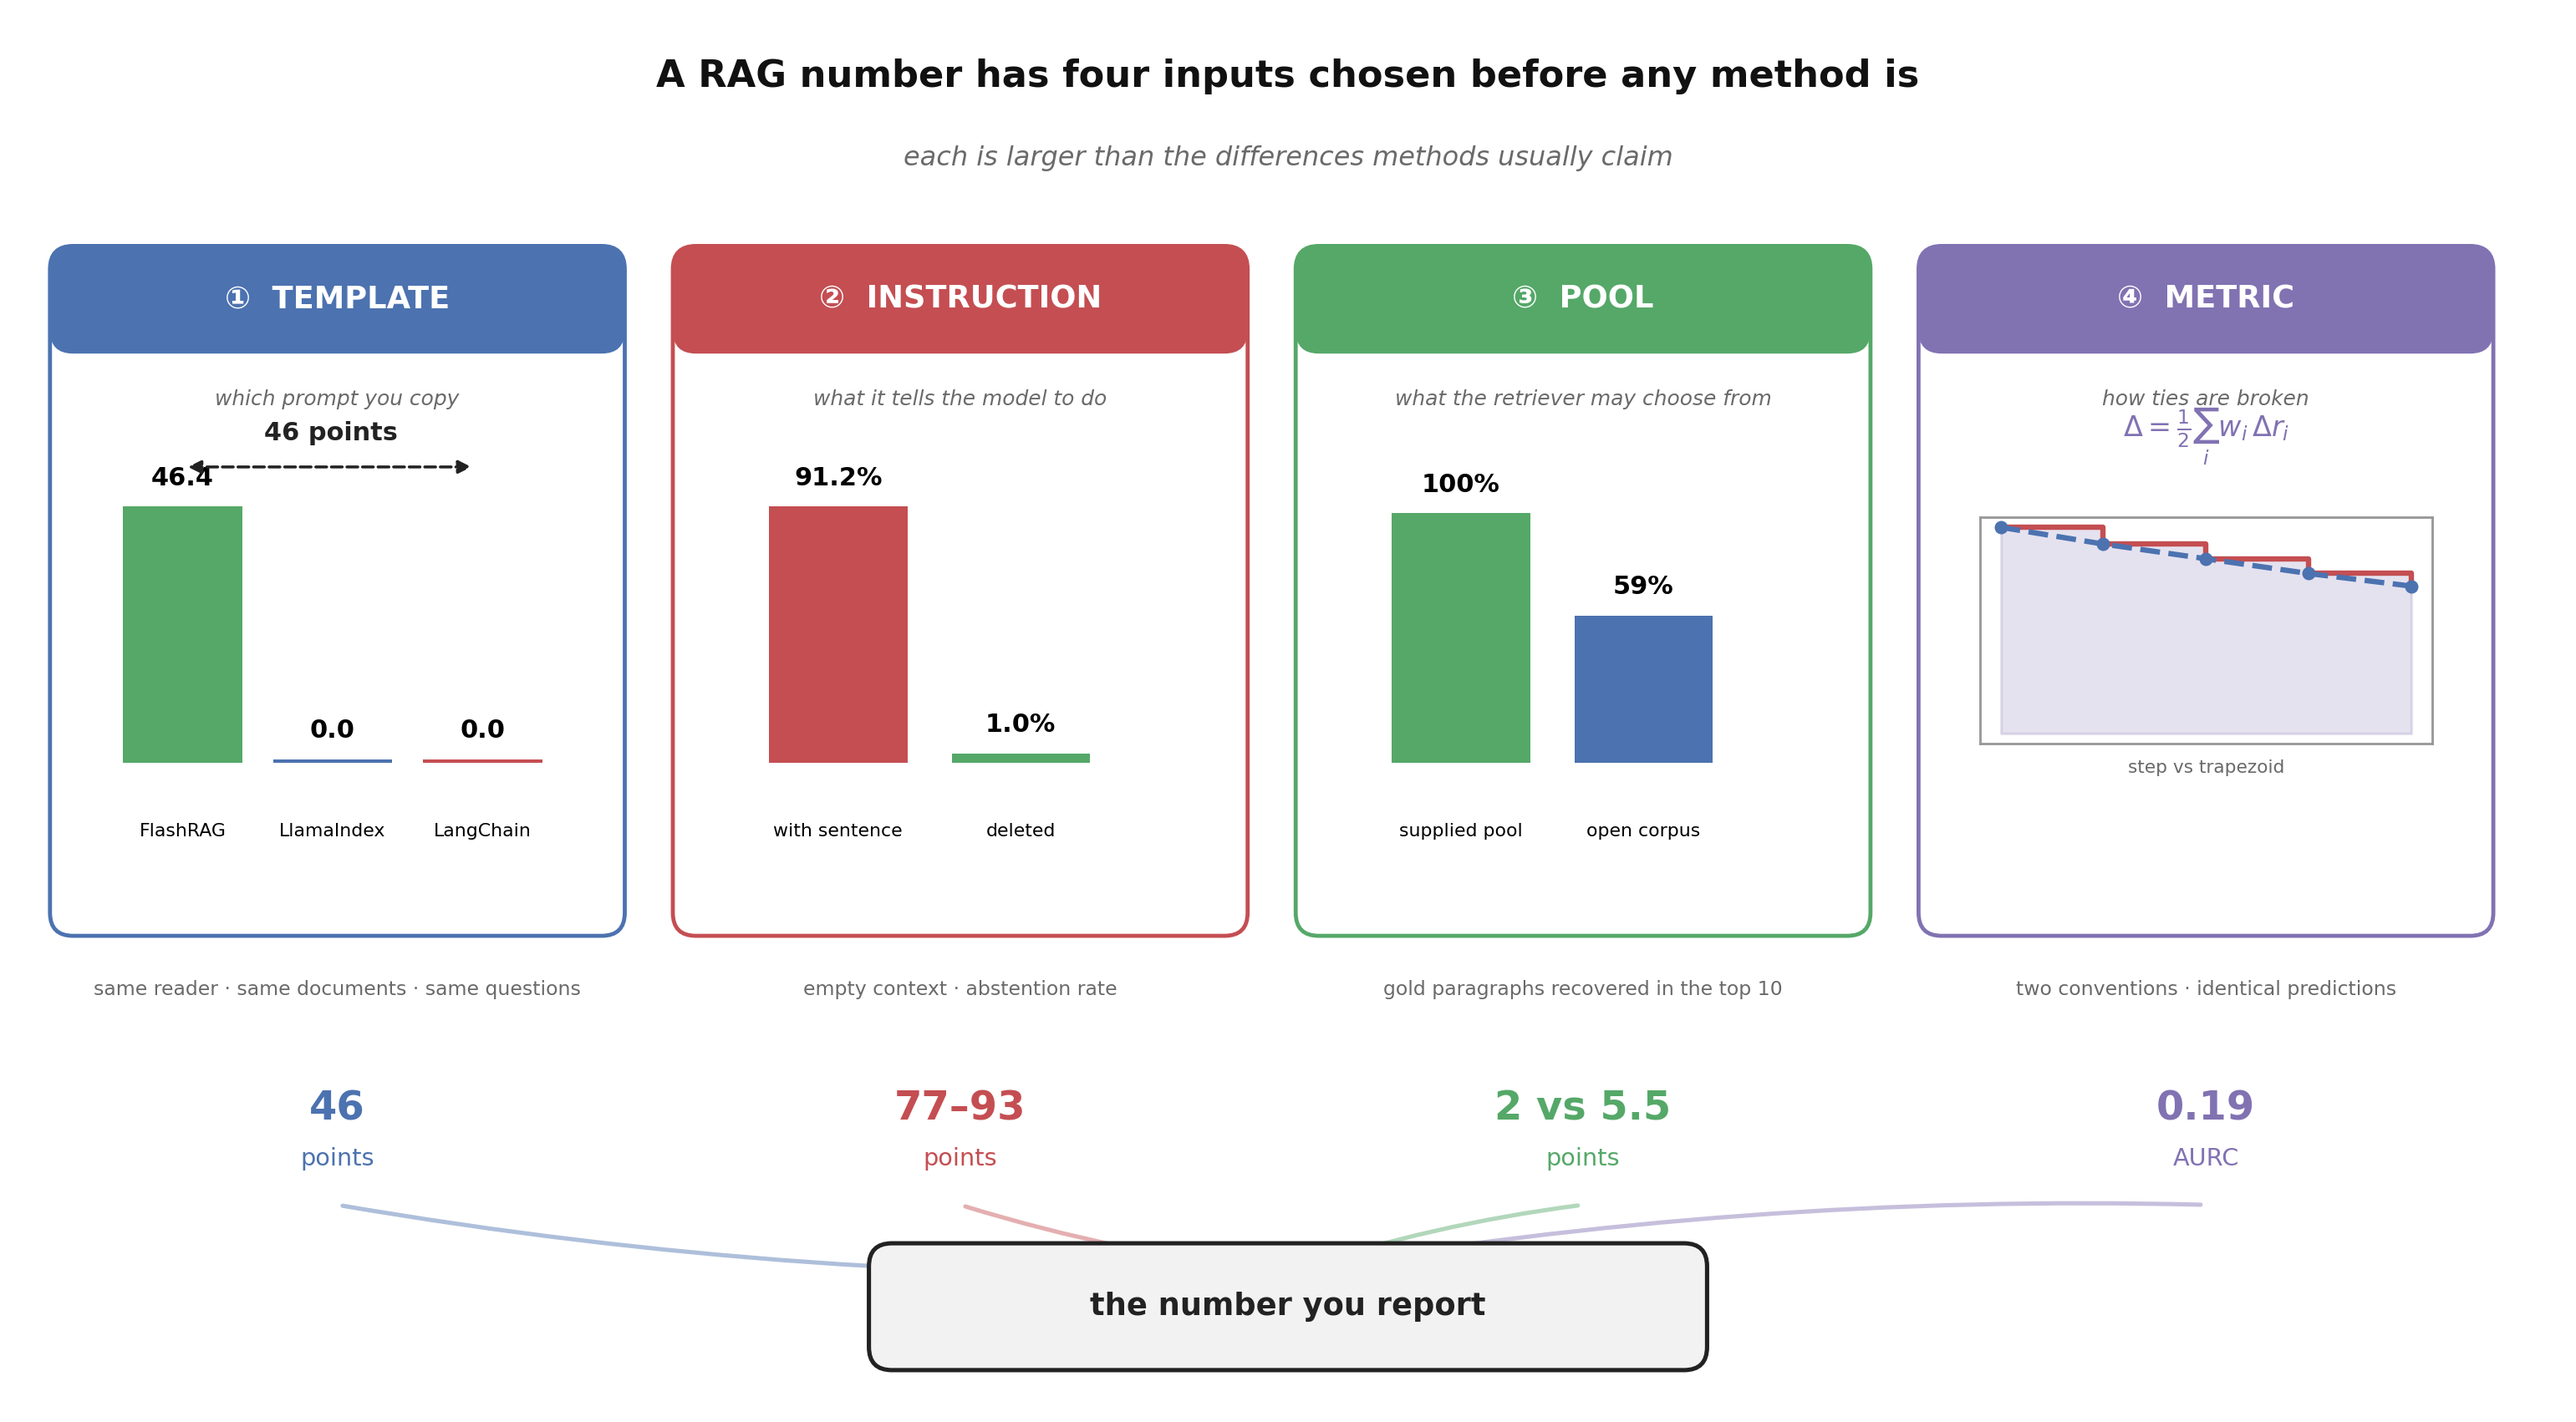
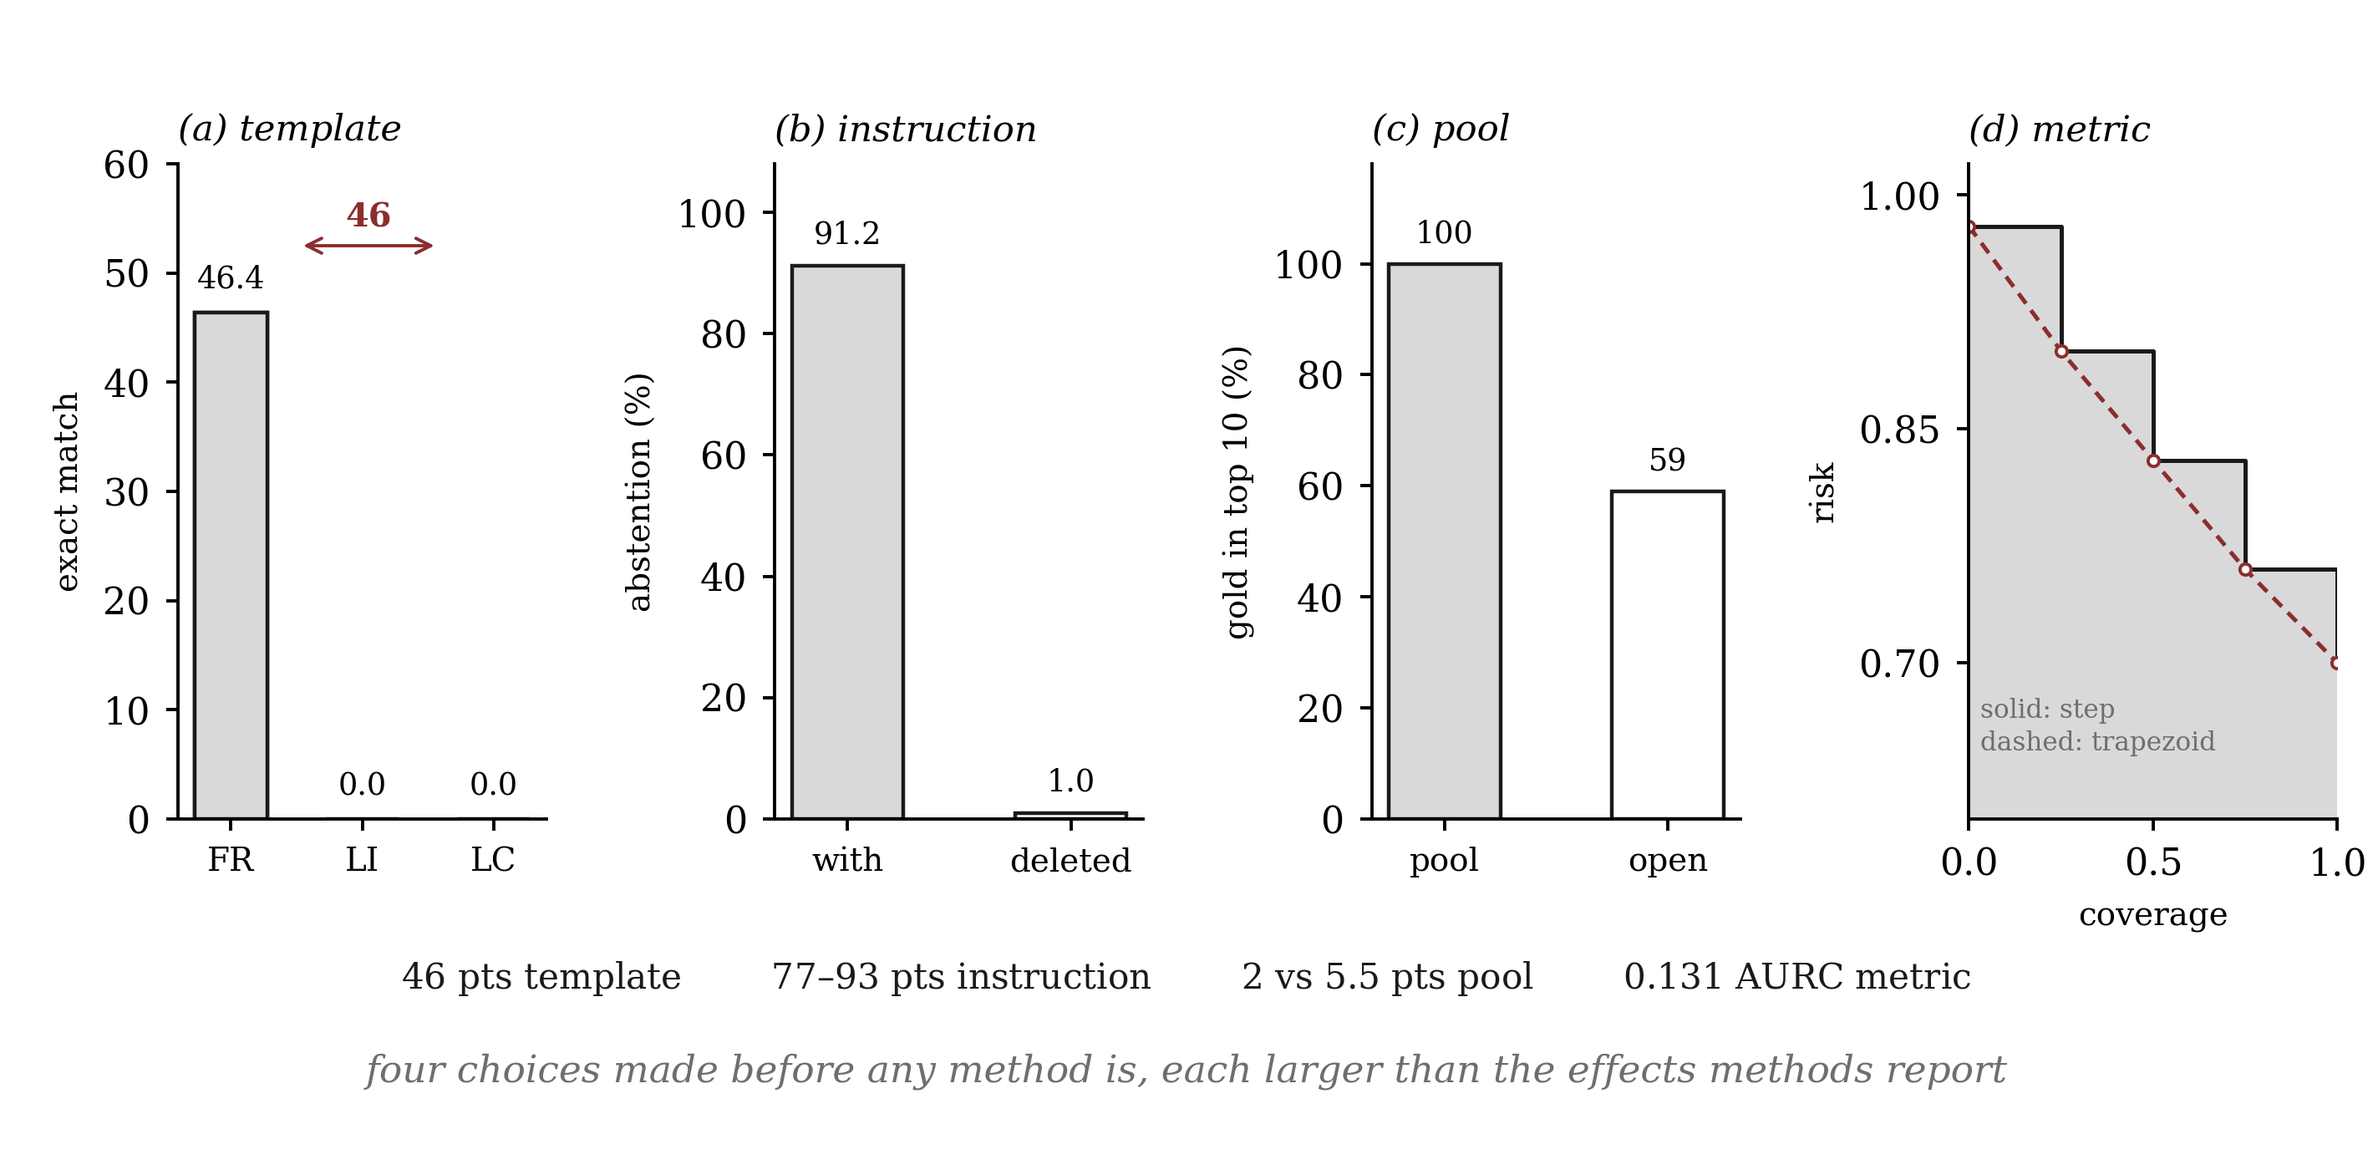
Add Study C/D verification (18 checks); refresh overview figure

diff --git a/scripts/_study_cd_verify.py b/scripts/_study_cd_verify.py
@@ -1,0 +1,107 @@
+"""Verification for Study C (pool) and Study D (metric), from stored artefacts."""
+import json
+import math
+import random
+import string
+from collections import Counter
+from pathlib import Path
+
+import numpy as np
+
+ROOT = Path(__file__).resolve().parents[1]
+R = ROOT / "results" / "r3"
+NUMW = {"zero": "0", "one": "1", "two": "2", "three": "3", "four": "4", "five": "5",
+        "six": "6", "seven": "7", "eight": "8", "nine": "9", "ten": "10"}
+DROP = {"the", "a", "an", "of", "and", "in", "on", "at", "to", "for", "by", "with"}
+
+
+def norm(s):
+    s = (s or "").lower().strip().translate(str.maketrans("", "", string.punctuation))
+    return " ".join(NUMW.get(t, t) for t in s.split() if t not in DROP)
+
+
+def refused(p):
+    p = (p or "").strip().lower()
+    return p.startswith("unknown") or p in {"", "n/a", "none"}
+
+
+def mcnemar(a, b):
+    n01 = sum(1 for x, y in zip(a, b) if x and not y)
+    n10 = sum(1 for x, y in zip(a, b) if y and not x)
+    n = n01 + n10
+    if n == 0:
+        return 1.0, n01, n10
+    k = min(n01, n10)
+    return min(1.0, 2 * sum(math.comb(n, i) for i in range(k + 1)) / 2 ** n), n01, n10
+
+
+checks = []
+
+# ---------- C1: end to end ----------
+rows = [json.loads(l) for l in (R / "bigcorpus" / "e2e_hotpot_200.jsonl")
+        .read_text(encoding="utf-8").splitlines() if l.strip()]
+bm = [r["arms"]["bm25"]["em"] for r in rows]
+ce = [r["arms"]["ce"]["em"] for r in rows]
+p, bm_only, ce_only = mcnemar(bm, ce)
+checks += [("C1 BM25 top-10 EM", 36.5, round(100 * np.mean(bm), 1)),
+           ("C1 CE reranked EM", 42.0, round(100 * np.mean(ce), 1)),
+           ("C1 CE wins (discordant)", 19, ce_only),
+           ("C1 BM25 wins (discordant)", 8, bm_only),
+           ("C1 McNemar p (x1000)", 52, round(p * 1000))]
+
+# ---------- C2: read-all vs oracle ----------
+S = {}
+for f in (R / "subset").glob("subset_hotpot_*.jsonl"):
+    for line in f.read_text(encoding="utf-8").splitlines():
+        if line.strip():
+            r = json.loads(line)
+            S[r["qid"]] = r
+E = {}
+for f in (R / "promptab").glob("promptab_hotpot_E_qwen253b_n500_rows.jsonl"):
+    for line in f.read_text(encoding="utf-8").splitlines():
+        if line.strip():
+            r = json.loads(line)
+            E[r["qid"]] = r
+q = sorted(set(S) & set(E))
+read_all = 100 * np.mean([int(E[x]["em"] > 0) for x in q])
+oracle = 100 * np.mean([int(any(S[x]["runs"][n]["em"] for n in ("bm25", "dense", "ce"))) for x in q])
+checks += [("C2 read-all EM", 46.5, round(read_all, 1)),
+           ("C2 oracle-2 EM", 48.5, round(oracle, 1)),
+           ("C2 headroom", 2.0, round(oracle - read_all, 1))]
+
+# ---------- C3: gold present in the supplied pool ----------
+import importlib.util
+spec = importlib.util.spec_from_file_location("r3mod", ROOT / "scripts" / "run_r3.py")
+r3 = importlib.util.module_from_spec(spec)
+spec.loader.exec_module(r3)
+qids = [str(x) for x in r3.load_splits()["hotpot"]["held_out_qids"]][:500]
+ex = r3.load_examples_by_qids("hotpot", qids)
+present = sum(1 for e in ex
+              if any(a.lower() in " ".join(e["docs"]).lower() for a in e["answers"]))
+checks.append(("C3 gold in pool (%)", 97.4, round(100 * present / len(ex), 1)))
+
+# ---------- D: span law ----------
+conv = json.loads((R / "ties" / "convention_span.json").read_text(encoding="utf-8"))
+by = {(c["dataset"], c["K"]): c for c in conv}
+checks += [("D hotpot K=3 span", 0.1084, round(by[("hotpot", 3)]["span_conv"], 4)),
+           ("D 2wiki K=3 span", 0.1311, round(by[("2wiki", 3)]["span_conv"], 4)),
+           ("D musique K=3 span", 0.1092, round(by[("musique", 3)]["span_conv"], 4)),
+           ("D hotpot K=5 span", 0.0730, round(by[("hotpot", 5)]["span_conv"], 4)),
+           ("D hotpot K=7 span", 0.0565, round(by[("hotpot", 7)]["span_conv"], 4)),
+           ("D largest tie group (%)", 46.2, round(100 * by[("hotpot", 3)]["max_group_share"], 1))]
+# identity: span == group - trapz, on every row
+worst = max(abs(c["span_conv"] - (c["group"] - c["trapz"])) for c in conv)
+checks.append(("D span == group - trapz (max err)", 0.0, round(worst, 9)))
+# monotone in the number of levels
+for ds in ("hotpot", "2wiki"):
+    mono = all(by[(ds, k)]["span_conv"] > by[(ds, k2)]["span_conv"]
+               for k, k2 in ((3, 5), (5, 7)))
+    checks.append((f"D {ds} span decreases in K", 1, int(mono)))
+
+print(f"{'check':<36}{'paper':>10}{'recomputed':>12}  status")
+bad = 0
+for name, exp, got in checks:
+    ok = abs(float(exp) - float(got)) <= max(0.02, abs(float(exp)) * 0.03)
+    bad += not ok
+    print(f"{name:<36}{exp:>10}{got:>12}  {'ok' if ok else 'FAIL'}")
+print(f"\n{bad} mismatches out of {len(checks)}")

diff --git a/scripts/plot_overview_journal.py b/scripts/plot_overview_journal.py
@@ -99,7 +99,7 @@ ax.spines[["top", "right"]].set_visible(False)
 # ---------- magnitude strip ----------
 fig.text(0.5, 0.155,
          r"$46$ pts template        $77\text{–}93$ pts instruction        "
-         r"$2$ vs $5.5$ pts pool        $0.19$ AURC metric",
+         r"$2$ vs $5.5$ pts pool        $0.131$ AURC metric",
          ha="center", fontsize=7.6, color=INK)
 
 fig.text(0.5, 0.075,
@@ -108,4 +108,5 @@ fig.text(0.5, 0.075,
 
 fig.savefig(OUT, dpi=400, facecolor="white")
 print("wrote", OUT)
+
 

diff --git a/README.md b/README.md
@@ -62,8 +62,10 @@ python scripts/_llama_sig.py
 python scripts/plot_templates.py
 python scripts/plot_graphical_abstract.py
 
-# 4. verify every number quoted in the paper (40 checks)
+# 4. verify every number quoted in the paper (40 checks for Studies A/B,
+#    18 checks for Studies C/D)
 python scripts/_template_paper_verify2.py
+python scripts/_study_cd_verify.py
 ```
 
 The verification script recomputes all 40 values quoted in the manuscript from the raw
@@ -104,4 +106,5 @@ construction.
 
 MIT for the code; the datasets keep their original licenses
 (HotpotQA, 2WikiMultiHopQA, MuSiQue).
+
 
